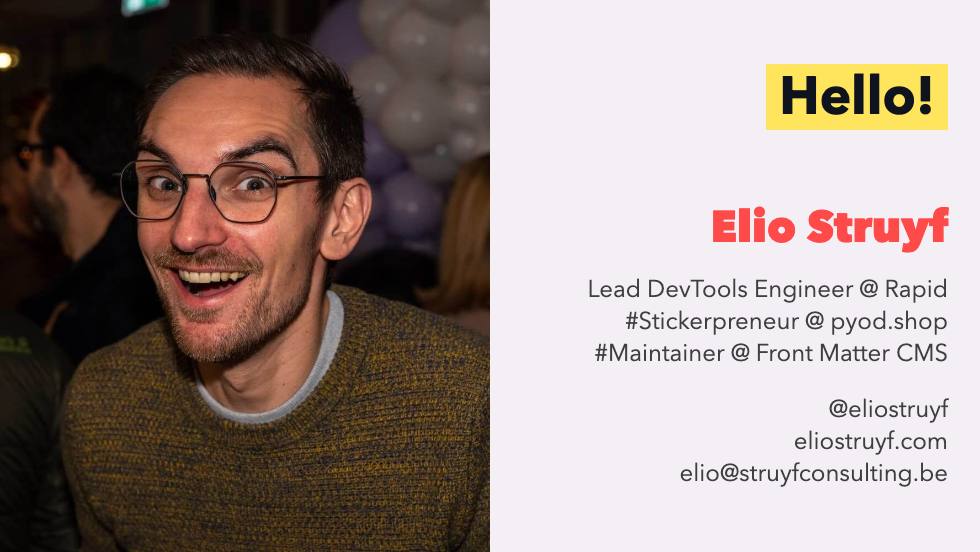
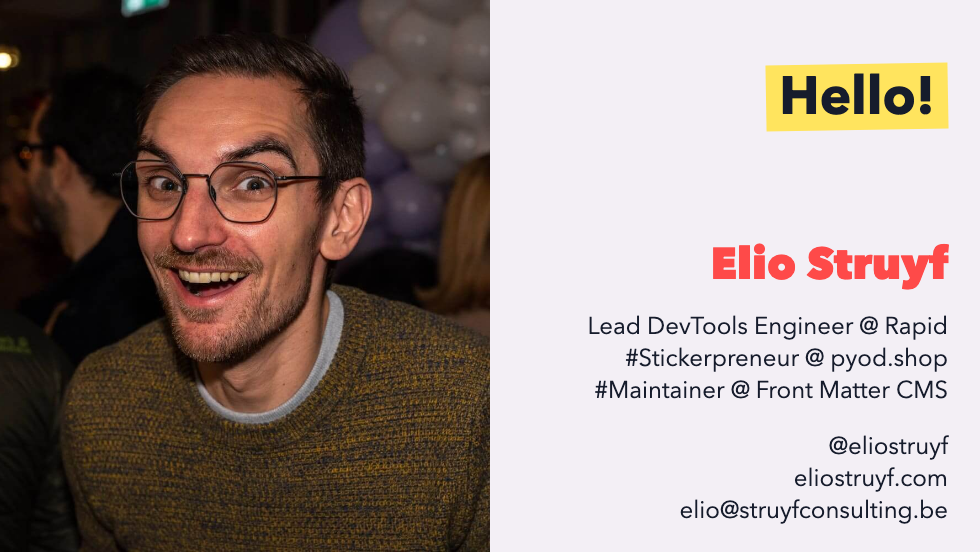
Added center layout + new css variables

Changed region(s): [[0.6122, 0.3696, 0.9796, 0.9547]]

diff --git a/styles/layout.css b/styles/layout.css
@@ -12,12 +12,36 @@
   --slidev-theme-code-border: #242d34;
 
   // Accent colors
+  --slidev-theme-accents-rose: #f141a8;
   --slidev-theme-accents-teal: #44FFD2;
   --slidev-theme-accents-yellow: #FFE45E;
   --slidev-theme-accents-red: #FE4A49;
   --slidev-theme-accents-lightblue: #15C2CB;
   --slidev-theme-accents-blue: #5EADF2;
   --slidev-theme-accents-vulcan: #0E131F;
+
+  // Default
+  --slidev-theme-default-headingBg: var(--slidev-theme-accents-yellow);
+  --slidev-theme-default-headingColor: var(--slidev-theme-accents-vulcan);
+
+  // Center
+  --slidev-theme-center-headingBg: var(--slidev-theme-accents-blue);
+  --slidev-theme-center-headingColor: var(--slidev-theme-accents-vulcan);
+
+  // Cover
+  --slidev-theme-cover-headingBg: var(--slidev-theme-accents-teal);
+  --slidev-theme-cover-headingColor: var(--slidev-theme-accents-vulcan);
+
+  // Section
+  --slidev-theme-section-headingBg: var(--slidev-theme-accents-lightblue);
+  --slidev-theme-section-headingColor: var(--slidev-theme-accents-vulcan);
+
+  // About me
+  --slidev-theme-aboutme-bg: var(--slidev-theme-color);
+  --slidev-theme-aboutme-color: var(--slidev-theme-background);
+  --slidev-theme-aboutme-helloBg: var(--slidev-theme-accents-yellow);
+  --slidev-theme-aboutme-helloColor: var(--slidev-theme-background);
+  --slidev-theme-aboutme-nameColor: var(--slidev-theme-accents-red);
 }
 
 /* The unnamed styles */ 
@@ -106,7 +130,8 @@
 .slidev-layout.intro,
 .slidev-layout.default,
 .slidev-layout.center,
-.slidev-layout[layout="default"] {
+.slidev-layout[layout="default"],
+.about-me {
   h1 {
     display: inline-block;
     padding: 0.25em;
@@ -139,10 +164,10 @@
 .slidev-layout.default,
 .slidev-layout[layout="default"] {
   h1 {
-    color: var(--slidev-theme-code-background);
+    color: var(--slidev-theme-default-headingColor);
 
     &::before {
-      background: var(--slidev-theme-accents-yellow);
+      background: var(--slidev-theme-default-headingBg);
     }
   }
 }
@@ -175,7 +200,7 @@
     z-index: 1;
 
     h1 {
-      color: var(--slidev-theme-accents-vulcan);
+      color: var(--slidev-theme-cover-headingColor);
       padding: .25em .5em;
       margin: 0;
 
@@ -184,7 +209,7 @@
         height: calc(100% - 0.25em);
         margin-left: -0.25em;
         margin-top: -0.12em;
-        background: var(--slidev-theme-accents-teal);
+        background: var(--slidev-theme-cover-headingBg);
       }
     }
 
@@ -220,7 +245,7 @@
   padding-bottom: 2.5rem;
 
   h1 {
-    color: var(--slidev-theme-code-background);
+    color: var(--slidev-theme-section-headingColor);
     font-size: 2.25rem;
     line-height: 2.5rem;
     margin-left: -0.05em;
@@ -228,7 +253,7 @@
     position: relative;
 
     &::before {
-      background: var(--slidev-theme-accents-lightblue);
+      background: var(--slidev-theme-section-headingBg);
     }
   }
 
@@ -242,39 +267,44 @@
 // Center
 .slidev-layout.center {
   h1 {
-    color: var(--slidev-theme-code-background);
+    width: fit-content;
+    color: var(--slidev-theme-center-headingColor);
     margin-bottom: 0;
 
     &::before {
-      background: var(--slidev-theme-accents-blue);
+      background: var(--slidev-theme-center-headingBg);
     }
 
     code {
       background: transparent !important;
     }
   }
+
+
 }
 
 /* About me slide */
 .about-me {
-  background: var(--slidev-theme-color) !important;
-  color: var(--slidev-theme-code-background) !important;
+  background: var(--slidev-theme-aboutme-bg);
+  color: var(--slidev-theme-aboutme-color) !important;
 
   h1 {
-    background: var(--slidev-theme-accents-yellow);
-    display: inline-block;
+    color: var(--slidev-theme-aboutme-helloColor);
     padding: 0.25em;
     font-weight: bold;
     font-size: 3em;
+
+    &::before {
+      background: var(--slidev-theme-aboutme-helloBg);
+    }
   }
 
   h2 {
-    color: var(--slidev-theme-accents-red);
+    color: var(--slidev-theme-aboutme-nameColor);
     font-size: 2.5em;
   }
 
   p {
     margin-bottom: 0;
-    color: #3F3F3F;
   }
 }

diff --git a/layouts/center.vue b/layouts/center.vue
@@ -1,0 +1,7 @@
+<template>
+  <div class="slidev-layout center h-full grid place-content-center">
+    <div class="my-auto flex flex-col justify-center items-center">
+      <slot />
+    </div>
+  </div>
+</template>

diff --git a/README.md b/README.md
@@ -4,6 +4,8 @@
 
 A [Slidev](https://sli.dev/) theme based on the [The unnamed - VS Code theme](https://marketplace.visualstudio.com/items?itemName=eliostruyf.vscode-unnamed-theme) by [Elio Struyf](https://elio.dev).
 
+The unnamed theme allows you to fully customize its colors to fit your brand.
+
 ## Usage
 
 Add the following frontmatter to your `slides.md`. Start Slidev then it will prompt you to install the theme automatically.
@@ -26,7 +28,7 @@ The theme currently has the following layouts:
 
 ### Cover
 
-![](./assets/001.png)
+![](/assets/cover.png)
 
 **Usage**
 
@@ -39,7 +41,7 @@ background: <image url> (optional)
 
 ### About me
 
-![](./assets/002.png)
+![](/assets/about-me.png)
 
 **Usage**
 
@@ -59,9 +61,13 @@ social3:
 ---
 ```
 
+### Center
+
+![](/assets/center.png)
+
 ### Default
 
-![](./assets/005.png)
+![](/assets/default.png)
 
 
 ## Cusomizations
@@ -70,9 +76,12 @@ You can customize the theme by adding the following frontmatter to your `slides.
 
 ```yaml
 themeConfig:
-  background: "#161C2C"
   color: "#F3EFF5"
-  
+  background: "#161C2C"
+
+  code-background: "#0F131E"
+  code-border: "#242d34"
+
   accents-teal: "#44FFD2"
   accents-yellow: "#FFE45E"
   accents-red: "#FE4A49"
@@ -80,9 +89,26 @@ themeConfig:
   accents-blue: "#5EADF2"
   accents-vulcan: "#0E131F"
 
-  code-background: "#0F131E"
-  code-border: "#242d34"
+  default-headingBg: var(--slidev-theme-accents-yellow)
+  default-headingColor: var(--slidev-theme-accents-vulcan)
+
+  center-headingBg: var(--slidev-theme-accents-blue)
+  center-headingColor: var(--slidev-theme-accents-vulcan)
+
+  cover-headingBg: var(--slidev-theme-accents-teal)
+  cover-headingColor: var(--slidev-theme-accents-vulcan)
+
+  section-headingBg: var(--slidev-theme-accents-lightblue)
+  section-headingColor: var(--slidev-theme-accents-vulcan)
+
+  aboutme-bg: var(--slidev-theme-color)
+  aboutme-color: var(--slidev-theme-background)
+  aboutme-helloBg: var(--slidev-theme-accents-yellow)
+  aboutme-helloColor: var(--slidev-theme-background)
+  aboutme-nameColor: var(--slidev-theme-accents-red)
 ```
+
+> **Info**: we made it possible to change all the accent colors, or define your own colors per type of slide.
 
 <br />
 <br />

diff --git a/example.md b/example.md
@@ -3,16 +3,36 @@ theme: ./
 background: https://source.unsplash.com/collection/94734566/1920x1080
 
 themeConfig:
-  background: "#161C2C"
   color: "#F3EFF5"
+  background: "#161C2C"
+
+  code-background: "#0F131E"
+  code-border: "#242d34"
+
   accents-teal: "#44FFD2"
   accents-yellow: "#FFE45E"
   accents-red: "#FE4A49"
   accents-lightblue: "#15C2CB"
   accents-blue: "#5EADF2"
   accents-vulcan: "#0E131F"
-  code-background: "#0F131E"
-  code-border: "#242d34"
+
+  default-headingBg: var(--slidev-theme-accents-yellow)
+  default-headingColor: var(--slidev-theme-accents-vulcan)
+
+  center-headingBg: var(--slidev-theme-accents-blue)
+  center-headingColor: var(--slidev-theme-accents-vulcan)
+
+  cover-headingBg: var(--slidev-theme-accents-teal)
+  cover-headingColor: var(--slidev-theme-accents-vulcan)
+
+  section-headingBg: var(--slidev-theme-accents-lightblue)
+  section-headingColor: var(--slidev-theme-accents-vulcan)
+
+  aboutme-bg: var(--slidev-theme-color)
+  aboutme-color: var(--slidev-theme-background)
+  aboutme-helloBg: var(--slidev-theme-accents-yellow)
+  aboutme-helloColor: var(--slidev-theme-background)
+  aboutme-nameColor: var(--slidev-theme-accents-red)
 ---
 
 # Slidev - The Unnamed
@@ -48,6 +68,14 @@ layout: section
 # Section title
 
 Subtitle for the section
+
+---
+layout: center
+---
+
+# Center title
+
+Subtitle for the center layout
 
 ---
 

diff --git a/changelog.md b/changelog.md
@@ -1,11 +1,16 @@
 # Changelog
 
-## [0.0.4] - 2023-02-02
+## [0.0.5] - 2023-02-02
+
+- Better css variable names for theming
+- Added center layout
+
+## [0.0.4] - 2023-02-01
 
 - Added mermaid styles for `sequenceDiagram`
 - Small fixes
 
-## [0.0.3] - 2023-02-02
+## [0.0.3] - 2023-02-01
 
 - Updated styles for all layouts
 - Added screenshots and documentation
